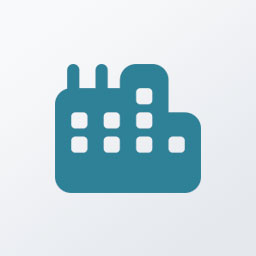
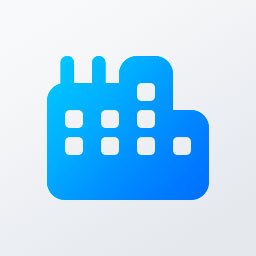
Ajuste menor en iconos de organizations

Changed region(s): [[0.1562, 0.2188, 0.8438, 0.7812]]

diff --git a/src/views/organizations/components/OrganizationsTableItem.jsx b/src/views/organizations/components/OrganizationsTableItem.jsx
@@ -5,6 +5,7 @@ import { FontAwesomeIcon } from '@fortawesome/react-fontawesome';
 import { faBuilding, faEdit, faEnvelope, faGlobe, faLandmark, faLocationDot, faLocationPin, faPhone, faUser, faUsers } from '@fortawesome/free-solid-svg-icons';
 
 import defaultPhoto from '../../../assets/img/icoOrganizationDefault.jpg';
+import primaryPhoto from '../../../assets/img/icoOrganizationPrimary.jpg';
 import enums from '../../../helpers/enums';
 import envVariables from '../../../helpers/envVariables';
 import isNullOrEmpty from '../../../helpers/isNullOrEmpty';
@@ -24,7 +25,9 @@ const OrganizationsTableItem = ({ item, className, applicantsOnly = false, onSho
     } = enums();
     const pathPhotoFilename = !!item.LogoFile
         ? `${VITE_FILES_URL}${URL_ORGANIZATION_FILES}/${item.ID}/${item.LogoFile}`
-        : defaultPhoto;
+        : applicantsOnly
+            ? primaryPhoto
+            : defaultPhoto;
 
     const myClassName = item.Status != OrganizationStatusType.active && item.Status != OrganizationStatusType.applicant
         ? !!className 
